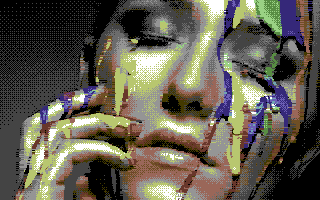
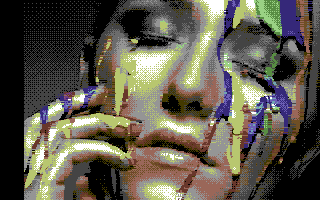
Refactoring

Changed region(s): [[0.0, 0.09, 0.0938, 1.0]]

diff --git a/src/io/C64Writer.ts b/src/io/C64Writer.ts
@@ -1,21 +1,60 @@
 import * as fs from 'fs-extra';
 import * as path from 'path';
+import { AFLIPicture } from '../io/AFLIPicture';
+import { FLIPicture } from '../io/FLIPicture';
+import { HiresPicture } from '../io/HiresPicture';
+import { KoalaPicture } from '../io/KoalaPicture';
+import { SpritePad } from '../io/SpritePad';
 import { PixelImage } from '../model/PixelImage';
+import { GraphicModes } from '../profiles/GraphicModes';
 import { C64Layout } from './C64Layout';
 import { IC64Format } from './IC64Format';
+
 export class C64Writer {
-  // Save PixelImage as a KoalaPaint image.
-  public static save(image: IC64Format, outFile: string, callback: () => {}) {
-    fs.writeFile(outFile, new Buffer(C64Layout.concat(image.toMemoryMap())), (err: Error) => {
-      if (err) {
-        throw err;
-      }
-      return callback();
-    });
+  // Save PixelImage as a c64 native .PRG executable.
+  public static savePrg(pixelImage: PixelImage, outFile: string, callback: () => {}) {
+    const picture: IC64Format = C64Writer.getFormat(pixelImage);
+    picture.fromPixelImage(pixelImage);
+    C64Writer.saveExecutable(picture, outFile, callback);
   }
 
-  // Save PixelImage as a c64 native .PRG executable.
-  public static saveExecutable(image: IC64Format, outFile: string, callback: () => {}) {
+  public static saveBinary(pixelImage: PixelImage, outFile: string, callback: () => {}) {
+    const picture: IC64Format = C64Writer.getFormat(pixelImage);
+    picture.fromPixelImage(pixelImage);
+    C64Writer.save(picture, outFile, callback);
+  }
+
+  private static viewersFolder: string = '/target/c64/';
+
+  // TODO: support multiple output formats per GraphicMode
+  private static getFormat(pixelImage: PixelImage): IC64Format {
+    if (pixelImage.mode === GraphicModes.c64Multicolor) {
+      return new KoalaPicture();
+    }
+
+    if (pixelImage.mode === GraphicModes.c64FLI) {
+      return new FLIPicture();
+    }
+
+    if (pixelImage.mode === GraphicModes.c64AFLI) {
+      return new AFLIPicture();
+    }
+
+    if (pixelImage.mode === GraphicModes.c64Hires || pixelImage.mode === GraphicModes.c64HiresMono) {
+      return new HiresPicture();
+    }
+
+    if (pixelImage.mode === GraphicModes.c64HiresSprites || pixelImage.mode === GraphicModes.c64MulticolorSprites) {
+      return new SpritePad();
+    }
+    throw new Error('Output format is not supported for mode ' + pixelImage.mode);
+  }
+
+  private static save(image: IC64Format, outFile: string, callback: () => {}) {
+    C64Writer.writeFile(outFile, new Buffer(C64Layout.concat(image.toMemoryMap())), callback);
+  }
+
+  private static saveExecutable(image: IC64Format, outFile: string, callback: () => {}) {
     // https://stackoverflow.com/questions/10265798/determine-project-root-from-a-running-node-js-application
     const appDir: string = path.dirname(require.main.filename);
     const viewerFile: string = path.join(appDir, this.viewersFolder + image.formatName + '.prg');
@@ -26,16 +65,18 @@ export class C64Writer {
       }
       const buffer: Buffer = new Buffer(C64Layout.concat(image.toMemoryMap()));
       const writeBuffer: Buffer = Buffer.concat([viewerCode, buffer]);
-      fs.writeFile(outFile, writeBuffer, writeError => {
-        if (writeError) {
-          throw writeError;
-        }
-        if (callback) {
-          return callback();
-        }
-      });
+      C64Writer.writeFile(outFile, writeBuffer, callback);
     });
   }
 
-  private static viewersFolder: string = '/target/c64/';
+  private static writeFile(filename: string, buffer: Buffer, callback: () => {}) {
+    fs.writeFile(filename, buffer, writeError => {
+      if (writeError) {
+        throw writeError;
+      }
+      if (callback) {
+        return callback();
+      }
+    });
+  }
 }

diff --git a/index.js b/index.js
@@ -64,74 +64,14 @@ if (outFile === undefined) {
   cli.help();
 }
 
-// Save PixelImage as a c64 native .PRG executable.
-function savePrg(pixelImage) {
-
-  // TODO: convert ifs into a map
-
-  if (cli.mode === 'c64Multicolor') {
-    let picture = new KoalaPicture.KoalaPicture();
-    picture.fromPixelImage(pixelImage);
-    return saveExecutable(picture);
-  }
-
-  if (cli.mode === 'c64FLI') {
-    let picture = new FLIPicture.FLIPicture();
-    picture.fromPixelImage(pixelImage);
-    return saveExecutable(picture);
-  }
-
-  if (cli.mode === 'c64AFLI') {
-    let picture = new AFLIPicture.AFLIPicture();
-    picture.fromPixelImage(pixelImage);
-    return saveExecutable(picture);
-  }
-
-  if (cli.mode == 'c64Hires' || cli.mode == 'c64HiresMono') {
-    let picture = new HiresPicture.HiresPicture();
-    picture.fromPixelImage(pixelImage);
-    return saveExecutable(picture);
-  }
-
-  if (cli.mode == 'c64HiresSprites') {
-    let picture = new HiresSprites.HiresSprites();
-    picture.fromPixelImage(pixelImage);
-    return saveExecutable(picture);
-  }
-
-  throw 'Commodore 64 executable format is not supported for mode ' + cli.mode + '.';
-}
-
-function saveExecutable(nativeImage) {
-  C64Writer.C64Writer.saveExecutable(nativeImage, outFile, () => {
-    console.log('Written Commodore 64 executable ' + outFile);
-  });
-}
-
-// Save PixelImage as a KoalaPaint image.
-function saveKoala(pixelImage) {
-  saveBinary(new KoalaPicture.KoalaPicture(), pixelImage);
-}
-
-function saveSpritePad(pixelImage) {
-  let image = new SpritePad.SpritePad();
-  saveBinary(image, pixelImage);
-}
-
-function saveBinary(image, pixelImage) {
-  image.fromPixelImage(pixelImage);
-  C64Writer.C64Writer.save(image, outFile, () => {
-    console.log('Written ' + outFile + ' in ' + image.formatName + ' format.');
-  });
-}
-
 // Save PixelImage as a PNG image.
 function savePng(pixelImage, filename) {
   new jimp(pixelImage.mode.width, pixelImage.mode.height, function(err, image) {
     if (err) throw err;
     for (let y = 0; y < image.bitmap.height; y += 1) {
       for (let x = 0; x < image.bitmap.width; x += 1) {
-        ImageData.ImageData.poke(image.bitmap, x, y, Poker.Poker.peek(pixelImage, x, y));
+        let pixelValue = x >= pixelImage.mode.FLIBugSize ? Poker.Poker.peek(pixelImage, x, y) : [0, 0, 0, 0xff];
+        ImageData.ImageData.poke(image.bitmap, x, y, pixelValue);
       }
     }
     image.resize(
@@ -185,25 +125,18 @@ jimp.read(inFile, (err, jimpImage) => {
 
     const pixelImage = Converter.Converter.convert(jimpImage.bitmap, graphicMode);
 
-    // Show FLI bug by clearing first 12 pixels on each row.
-    if (cli.mode === 'c64FLI') {
-      for (y = 0; y < pixelImage.height; y++) {
-        for (x = 0; x < 12; x++) {
-          pixelImage.pixelIndex[y][x] = 0;
-        }
-      }
-    }
-
     outExtension = path.extname(outFile);
 
-    if ('.kla' === outExtension) {
-      saveKoala(pixelImage);
+    if ('.kla' === outExtension || '.spd' === outExtension) {
+      C64Writer.C64Writer.saveBinary(pixelImage, outFile, function() {
+        console.log('Written ' + outFile);
+      });
     } else if ('.prg' === outExtension) {
-      savePrg(pixelImage);
+      C64Writer.C64Writer.savePrg(pixelImage, outFile, function() {
+        console.log('Written ' + outFile);
+      });
     } else if ('.png' === outExtension) {
       savePng(pixelImage, outFile);
-    } else if ('.spd' == outExtension) {
-      saveSpritePad(pixelImage);
     } else {
       throw 'Unknown file extension ' + outExtension + ', valid extensions are .png, .kla and .prg';
     }
